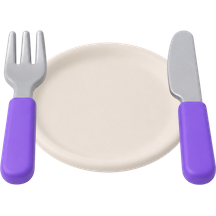
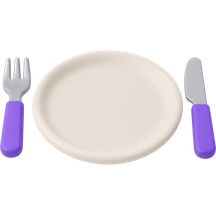
james: separar talheres do prato, igualar os vãos e singularizar os rótulos
O ícone de restaurante volta ao arranjo original que você mandou: garfo e
faca ao lado do prato, sem sobrepor. Isso deixa a arte em 1,88:1.

Com a arte mais larga, o `space-between` distribuía as colunas por igual mas
não a tinta dentro delas — o Restaurantes renderizava 74px de largura contra
48px dos outros três, comendo os vãos vizinhos e sobrando tudo no último.
Medido: 23,6 / 23,6 / 36,7. Devolvendo a arte a um canvas quadrado as quatro
caixas ficam em 48px e os vãos igualam em 36,7 / 36,6 / 36,7.

O custo é que a composição horizontal rende só 26px de tinta em altura
contra 48px das outras. É inerente ao formato 1,88:1: dentro de uma coluna
fixa dá para ter vão uniforme ou altura uniforme, não os dois. Um render
novo já enquadrado em quadrado resolveria os dois de uma vez.

Rótulos no singular, em pt e en.

Changed region(s): [[0.0, 0.1389, 1.0, 0.8611]]

diff --git a/public/prototypes/james/index.html b/public/prototypes/james/index.html
@@ -541,7 +541,7 @@ class Component extends DCLogic {
 
   STRINGS = {
     pt: {
-      tabs: ['mercados', 'restaurantes', 'farmácias', 'pet'],
+      tabs: ['mercado', 'restaurante', 'farmácia', 'pet'],
       saudacao: 'Qual seu pedido hoje?', buscarPlaceholder: 'Procure por item ou estabelecimento',
       explorar: 'Explorar', entregaCalcular: 'entrega a calcular',
       pertoDeVoce: 'Perto de você', oferta: 'OFERTA', comprar: 'Comprar', promoSub: 'Até 50% OFF na ceia',
@@ -557,7 +557,7 @@ class Component extends DCLogic {
       ordens: ['Ordenação Padrão', 'Preço', 'Avaliação', 'Tempo de entrega', 'Taxa de entrega', 'Distância'],
     },
     en: {
-      tabs: ['markets', 'restaurants', 'pharmacies', 'pet'],
+      tabs: ['market', 'restaurant', 'pharmacy', 'pet'],
       saudacao: 'What are you ordering today?', buscarPlaceholder: 'Search for an item or store',
       explorar: 'Explore', entregaCalcular: 'delivery to be calculated',
       pertoDeVoce: 'Near you', oferta: 'OFFER', comprar: 'Shop now', promoSub: 'Up to 50% OFF this season',
